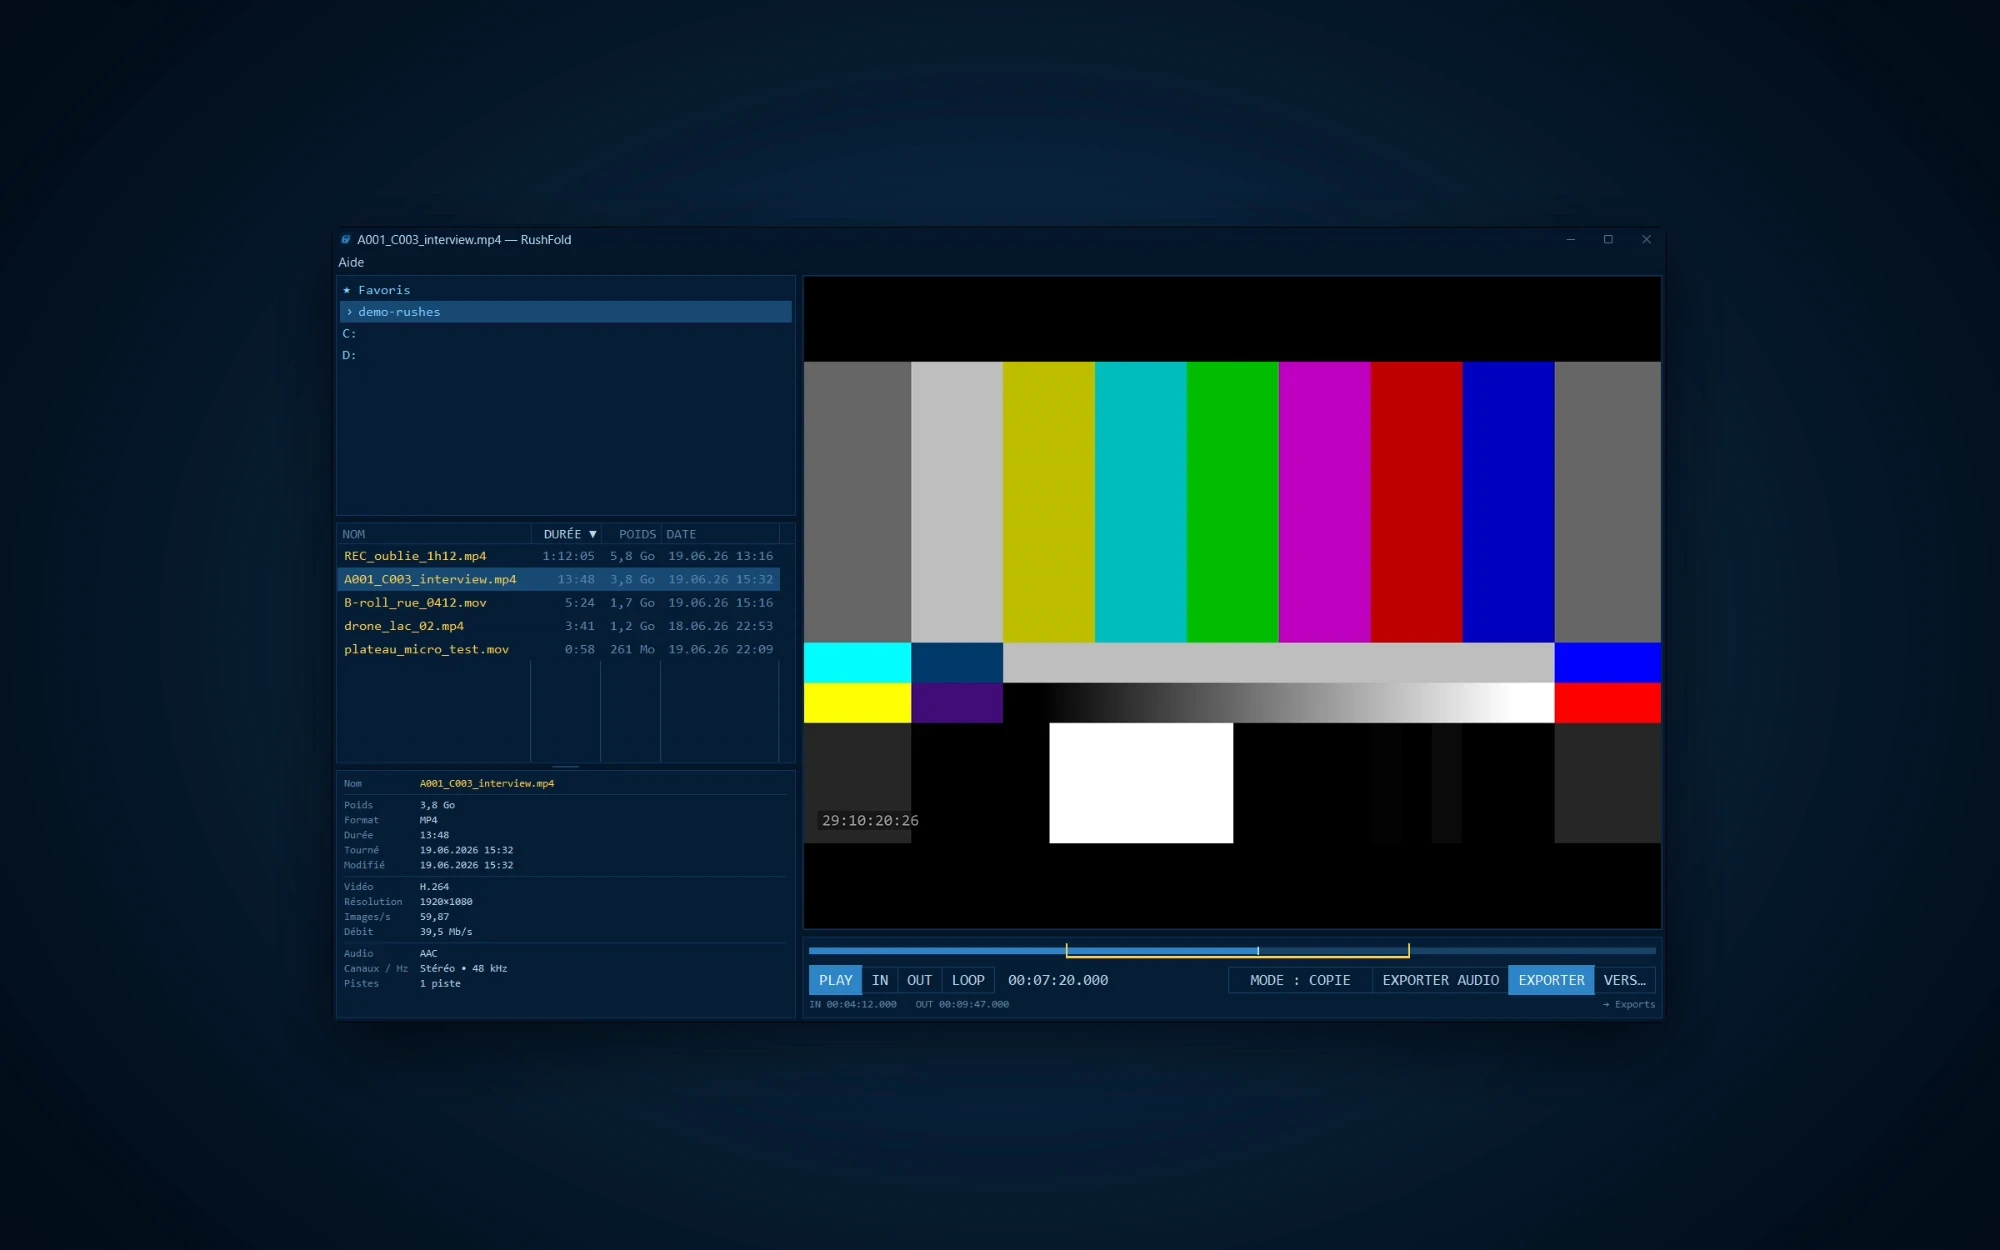
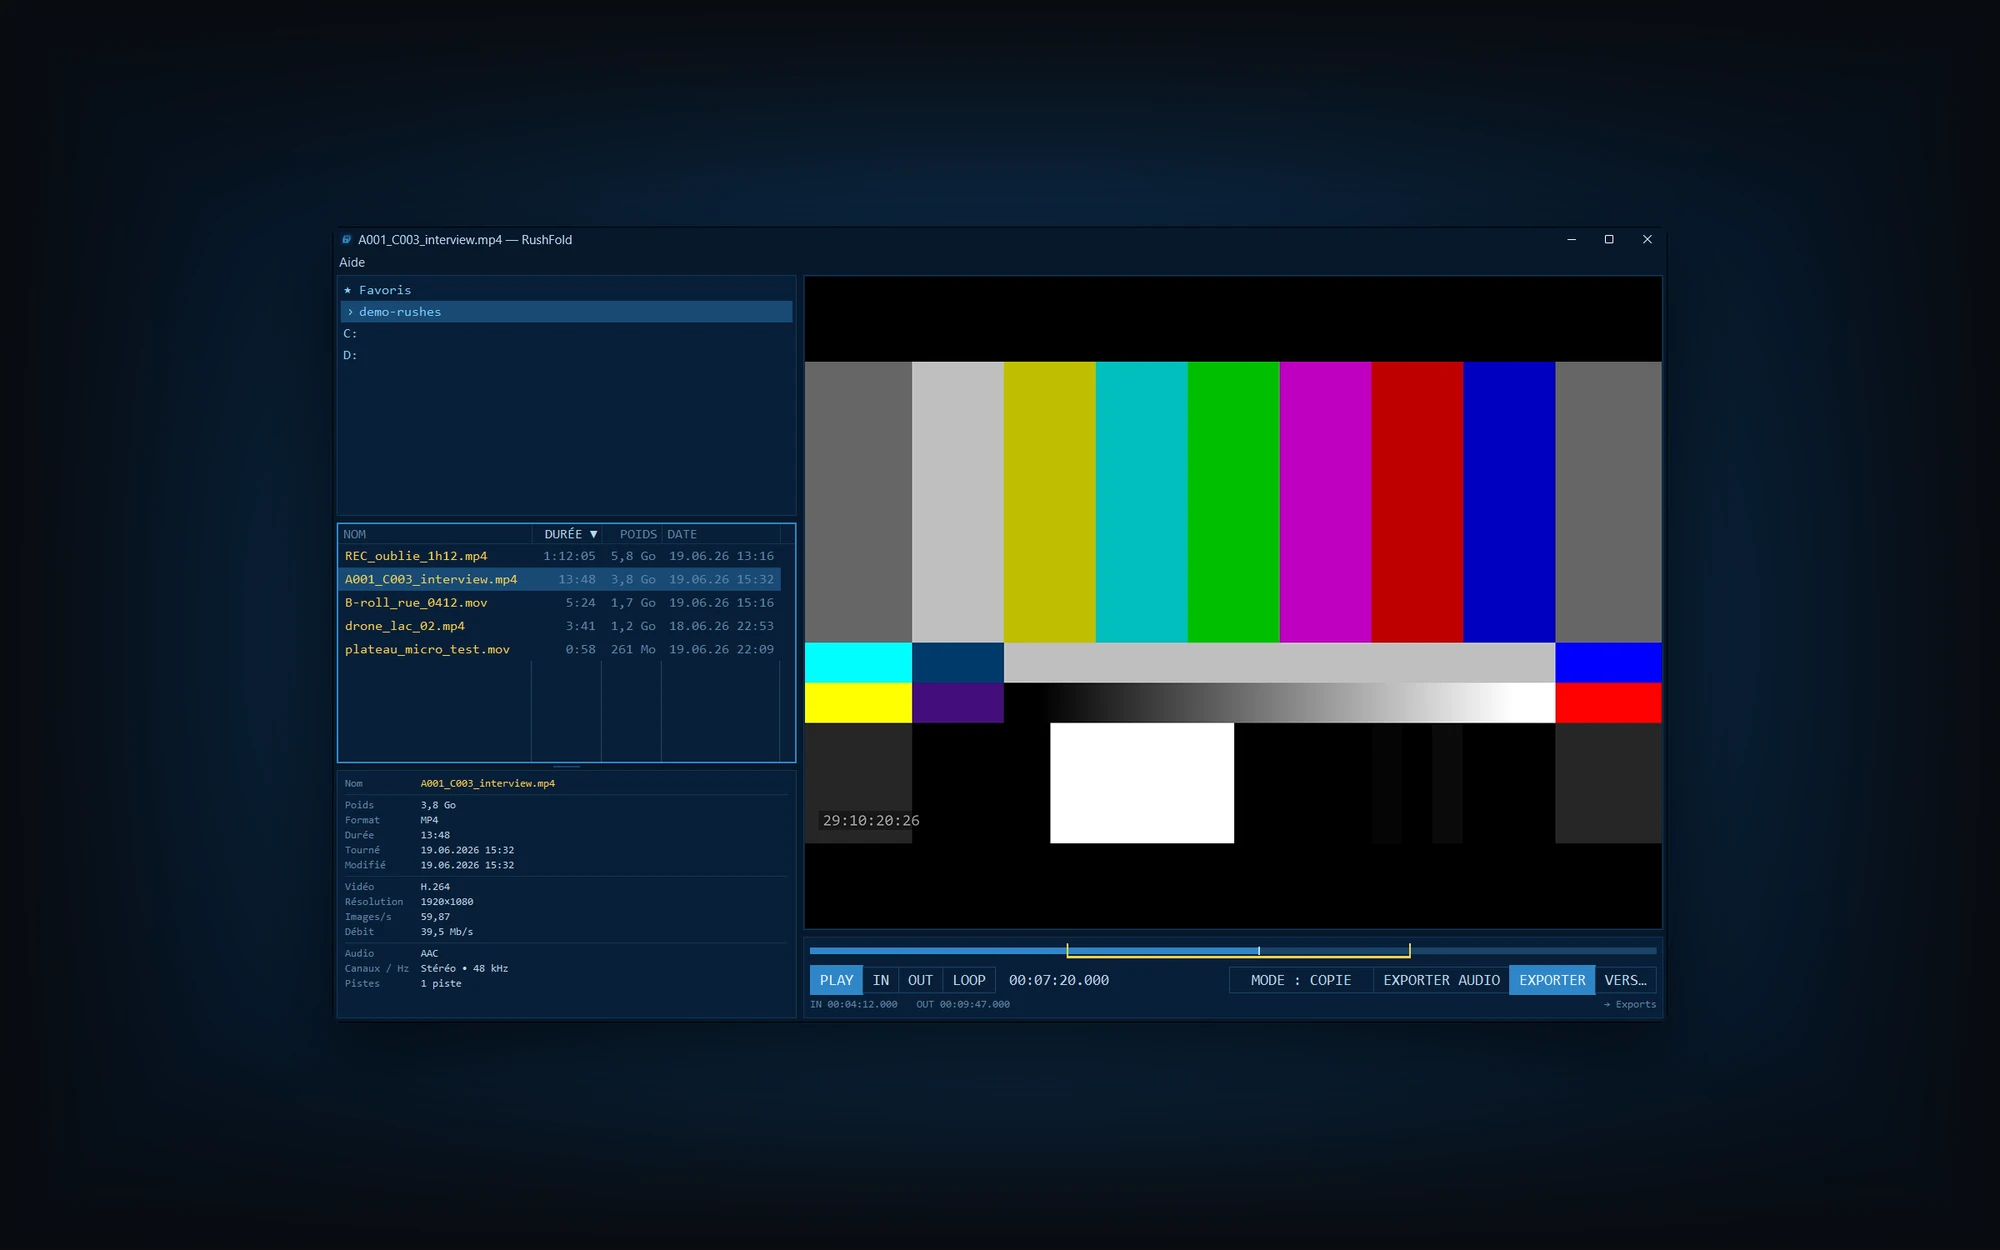
Nouvelle capture de démo RushFold (version avec liste active)

diff --git a/CLAUDE.md b/CLAUDE.md
@@ -24,7 +24,7 @@ Ces règles passent avant tout le reste, à chaque modification.
 |---|---|
 | `index.html` | Tout le site : accueil, page RushFold, page Merci, CSS, JS, favicon. |
 | `fonts/` (3 fichiers woff2) | Polices du design, réduites aux graisses et caractères utilisés (88 Ko au total). Hébergées ici plutôt que chez Google pour la vie privée des visiteurs. Les intégrer dans le HTML alourdirait la page d'un tiers. |
-| `rushfold-hero-*` (2 WebP + 1 PNG) | Capture de l'app affichée en tête de la page RushFold. Le navigateur charge un WebP (24 Ko en 1200 px, 49 Ko en 2000 px) ; le PNG (247 Ko) n'est qu'un secours pour les très vieux navigateurs. Une image ne peut pas être intégrée au HTML sans l'alourdir. |
+| `rushfold-hero-*` (2 WebP + 1 PNG) | Capture de l'app affichée en tête de la page RushFold. Le navigateur charge un WebP (24 Ko en 1200 px, 53 Ko en 2000 px) ; le PNG (203 Ko) n'est qu'un secours pour les très vieux navigateurs. Une image ne peut pas être intégrée au HTML sans l'alourdir. |
 | `.nojekyll` | Fichier vide : GitHub Pages sert les fichiers tels quels, sans étape de build. |
 | `CLAUDE.md` | Ce document. Public dans le dépôt : n'y écris jamais rien de confidentiel. |
 
@@ -51,7 +51,7 @@ Tu endosses chacun de ces rôles selon la tâche. Avant de livrer, passe ta modi
 - Responsive : aucun défilement horizontal à 400 px de large.
 
 ### 3. Performance
-- **Budget : 150 Ko** pour la page complète (actuellement environ 145 Ko sur la page RushFold : polices 88 Ko, image WebP 49 Ko, HTML compressé environ 9 Ko).
+- **Budget : 150 Ko** pour la page complète (actuellement environ 149 Ko sur la page RushFold : polices 88 Ko, image WebP 53 Ko, HTML compressé environ 9 Ko).
 - Aucune ressource externe : pas de CDN, pas de Google Fonts, pas de script tiers.
 - Polices : `font-display: swap`, préchargement des deux principales, aucune nouvelle police.
 - Images futures : WebP ou AVIF, `width`/`height` fixés, `loading="lazy"` hors du premier écran.
